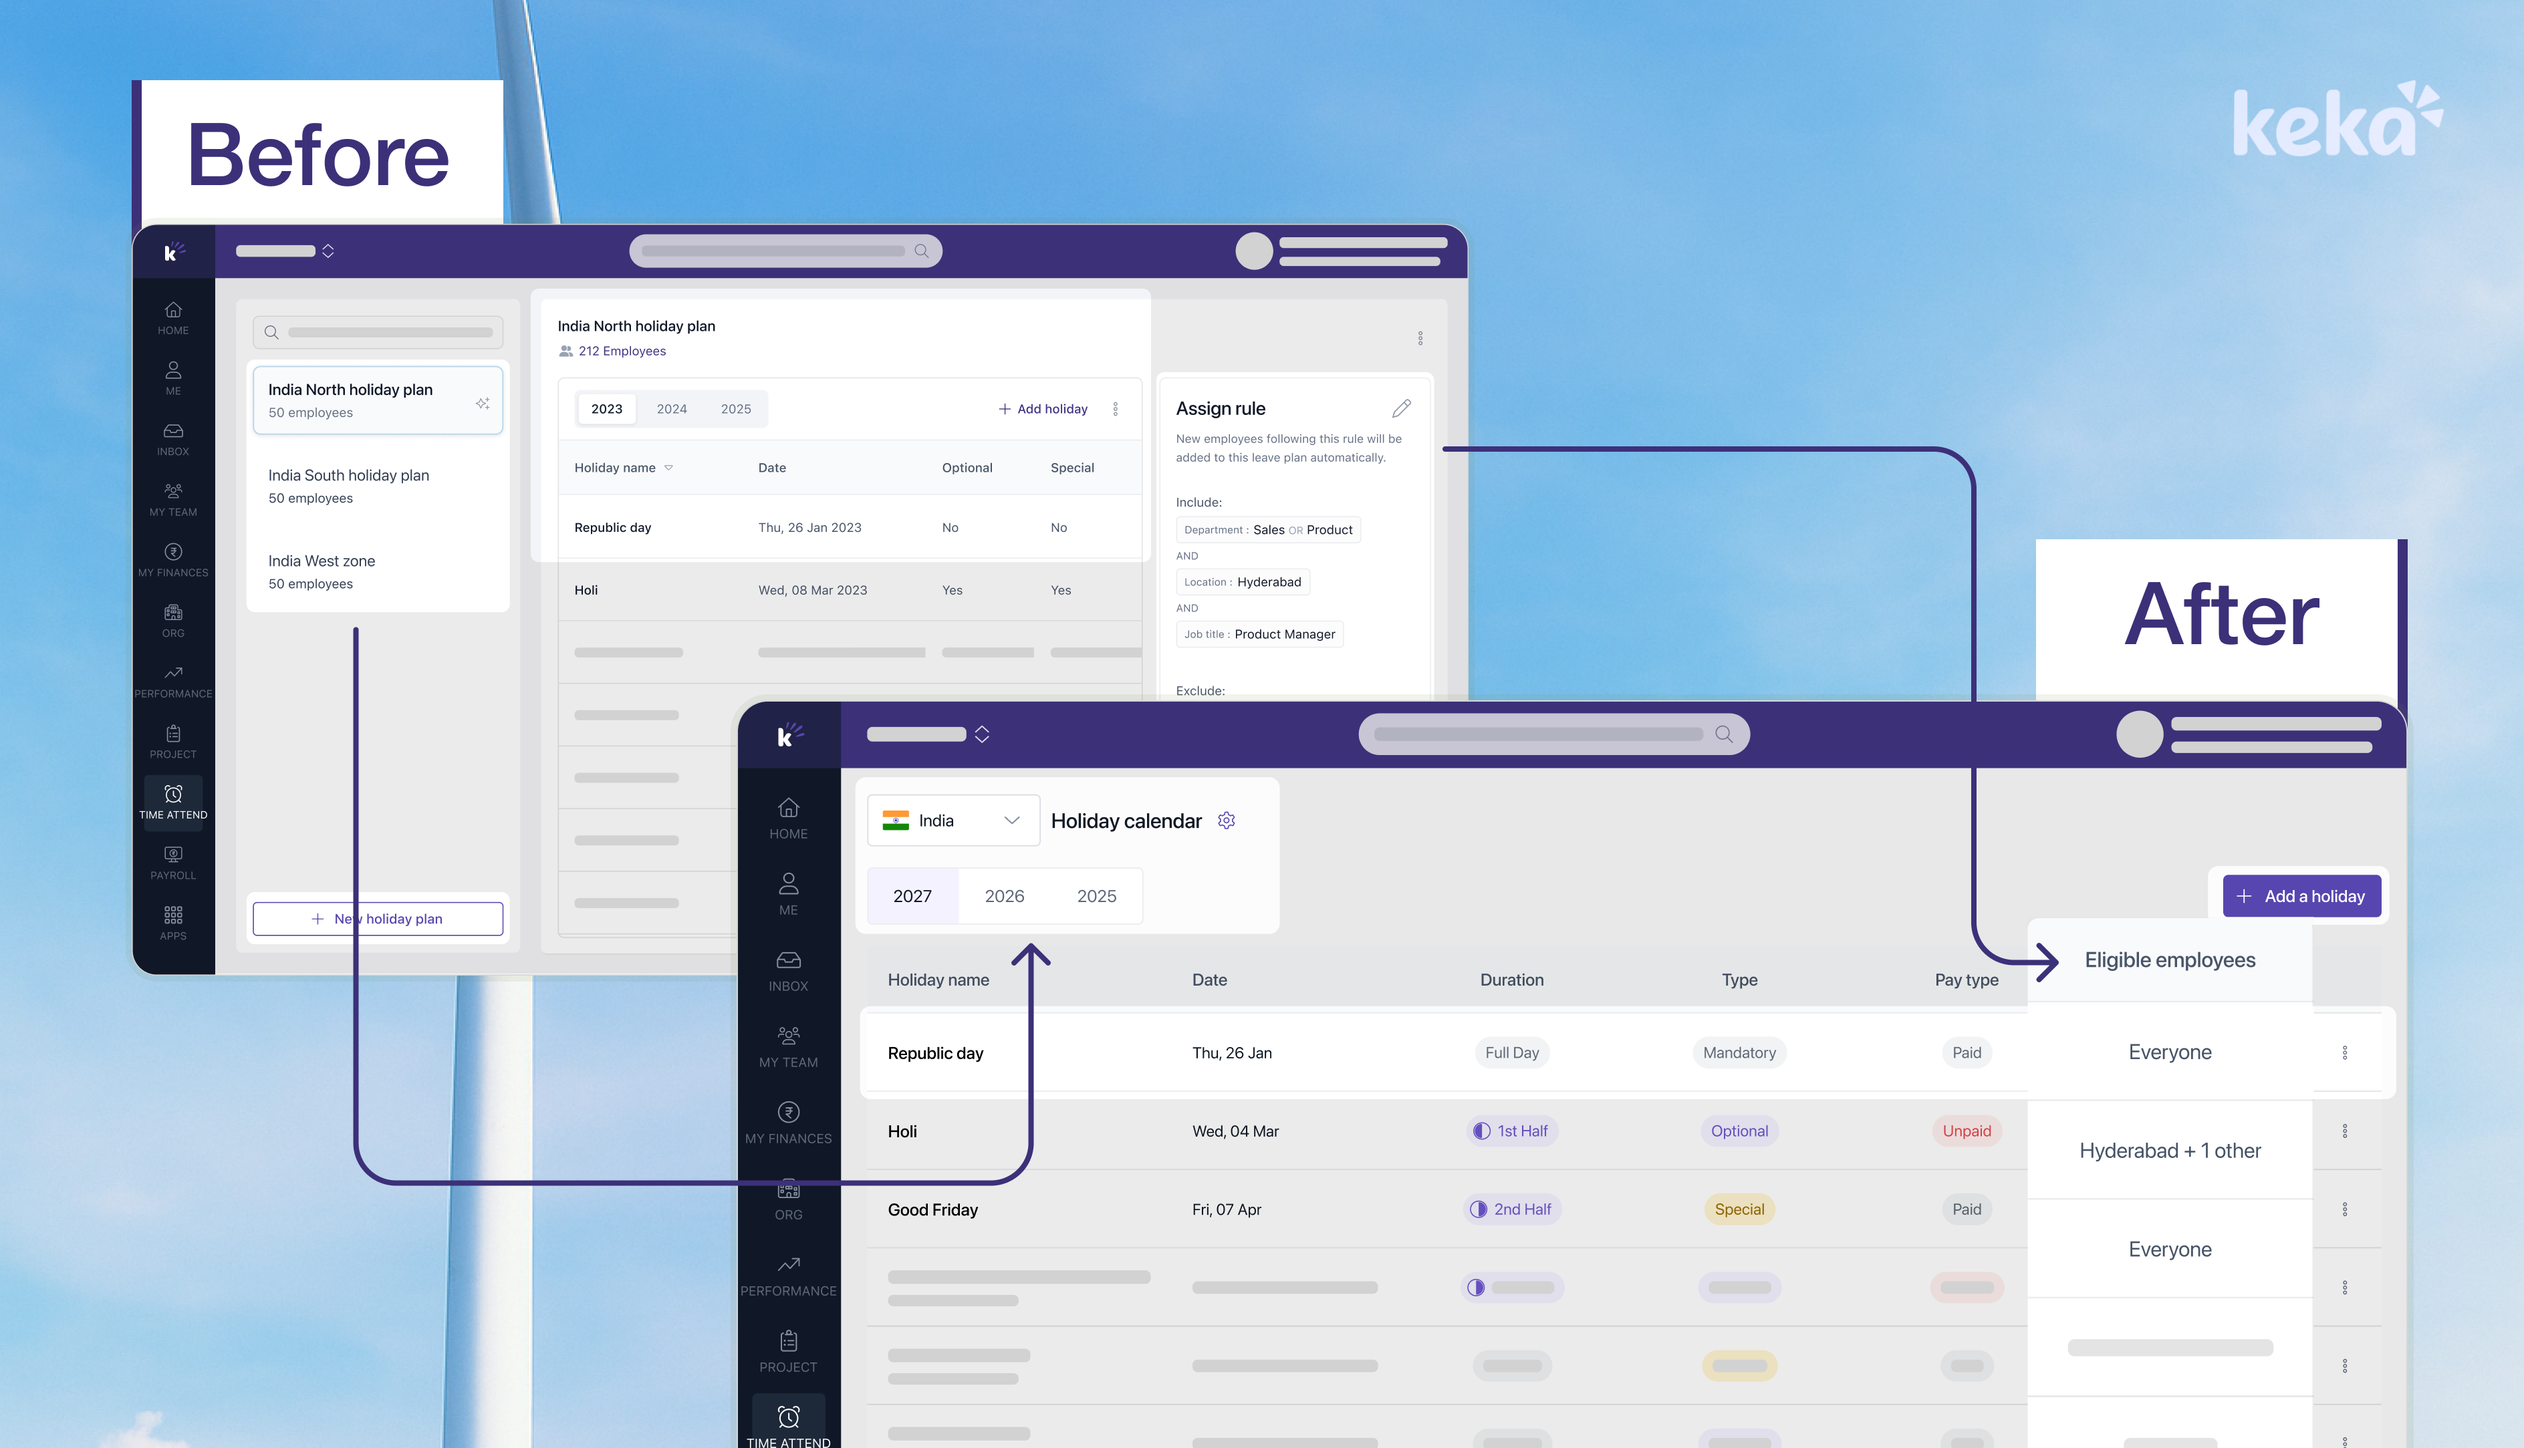
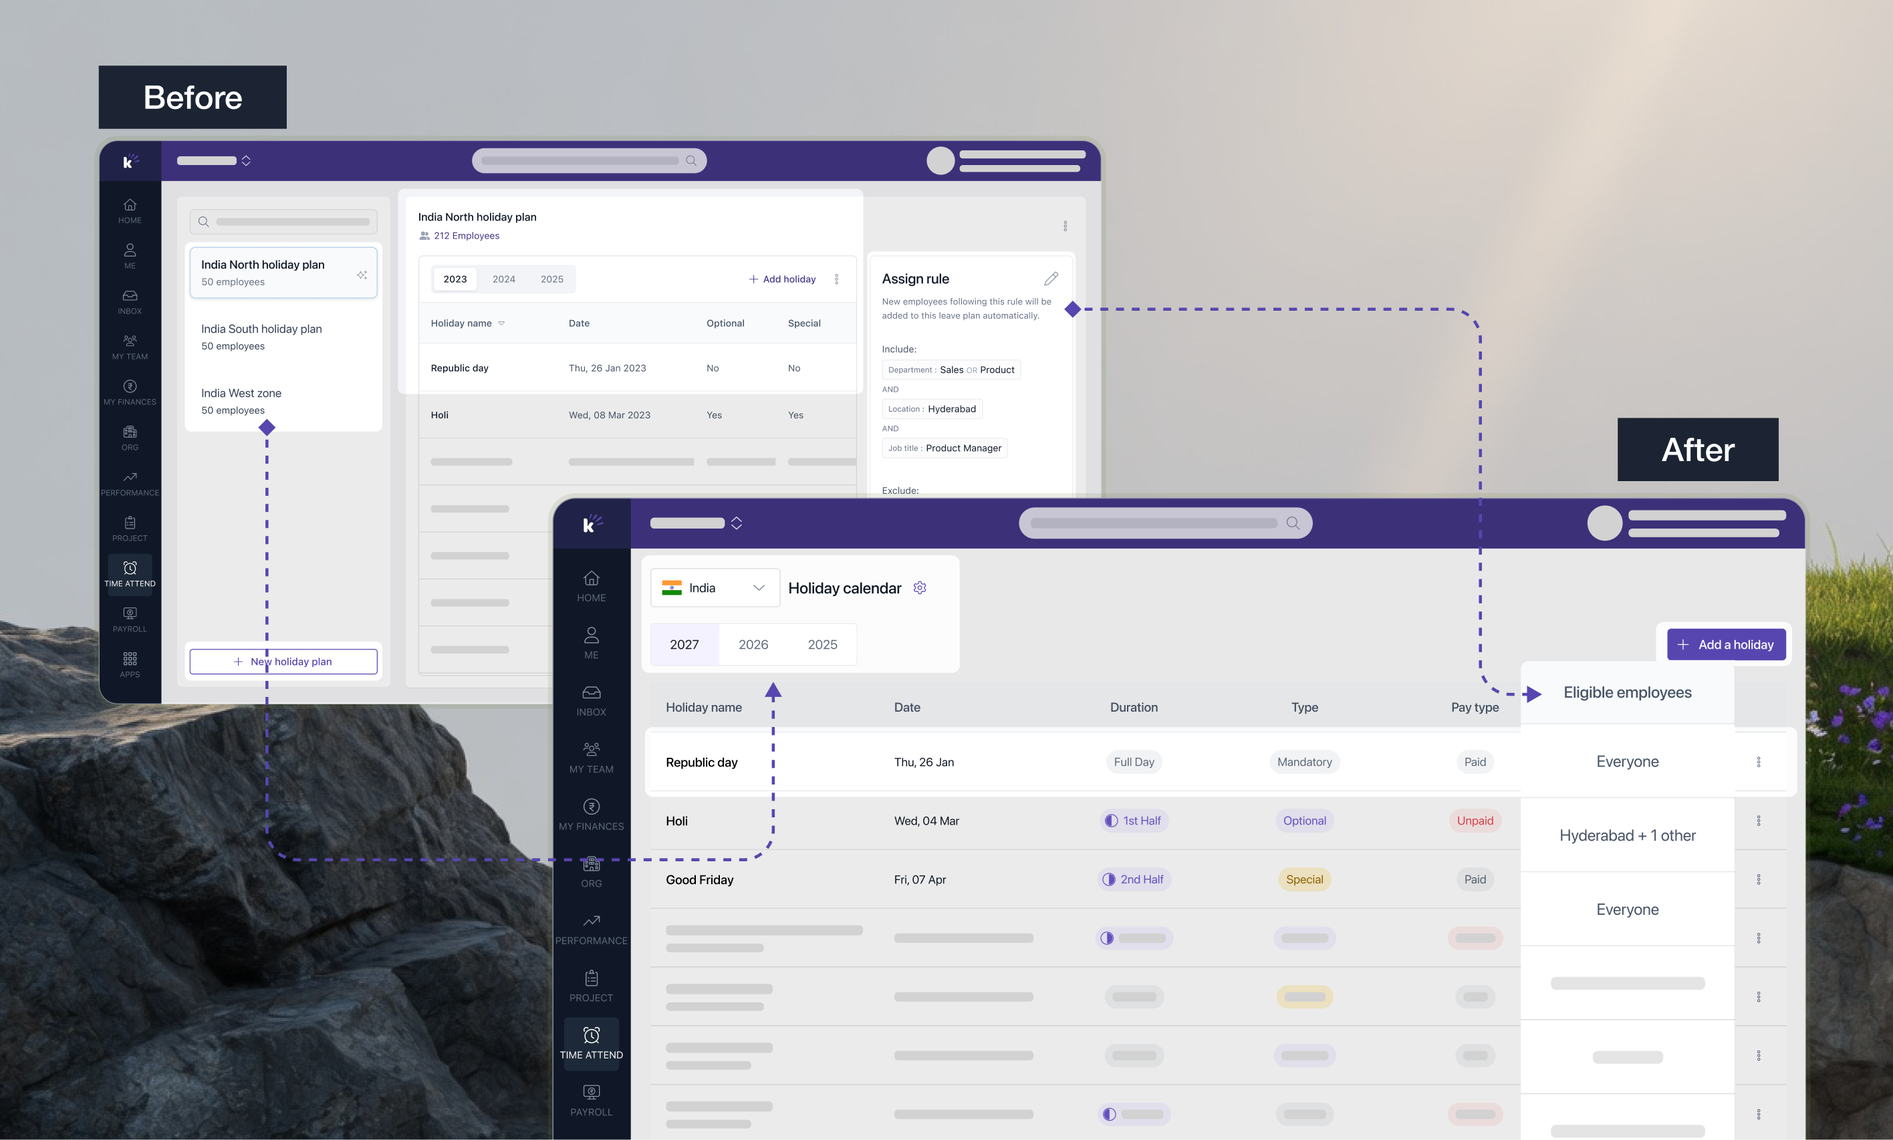
added award program designs

diff --git a/src/styles/ProjectCard.scss b/src/styles/ProjectCard.scss
@@ -207,7 +207,7 @@
   }
 
   h3 {
-    // max-width: 35ch;
+    max-width: 35ch;
     margin-bottom: 0;
   }
 
